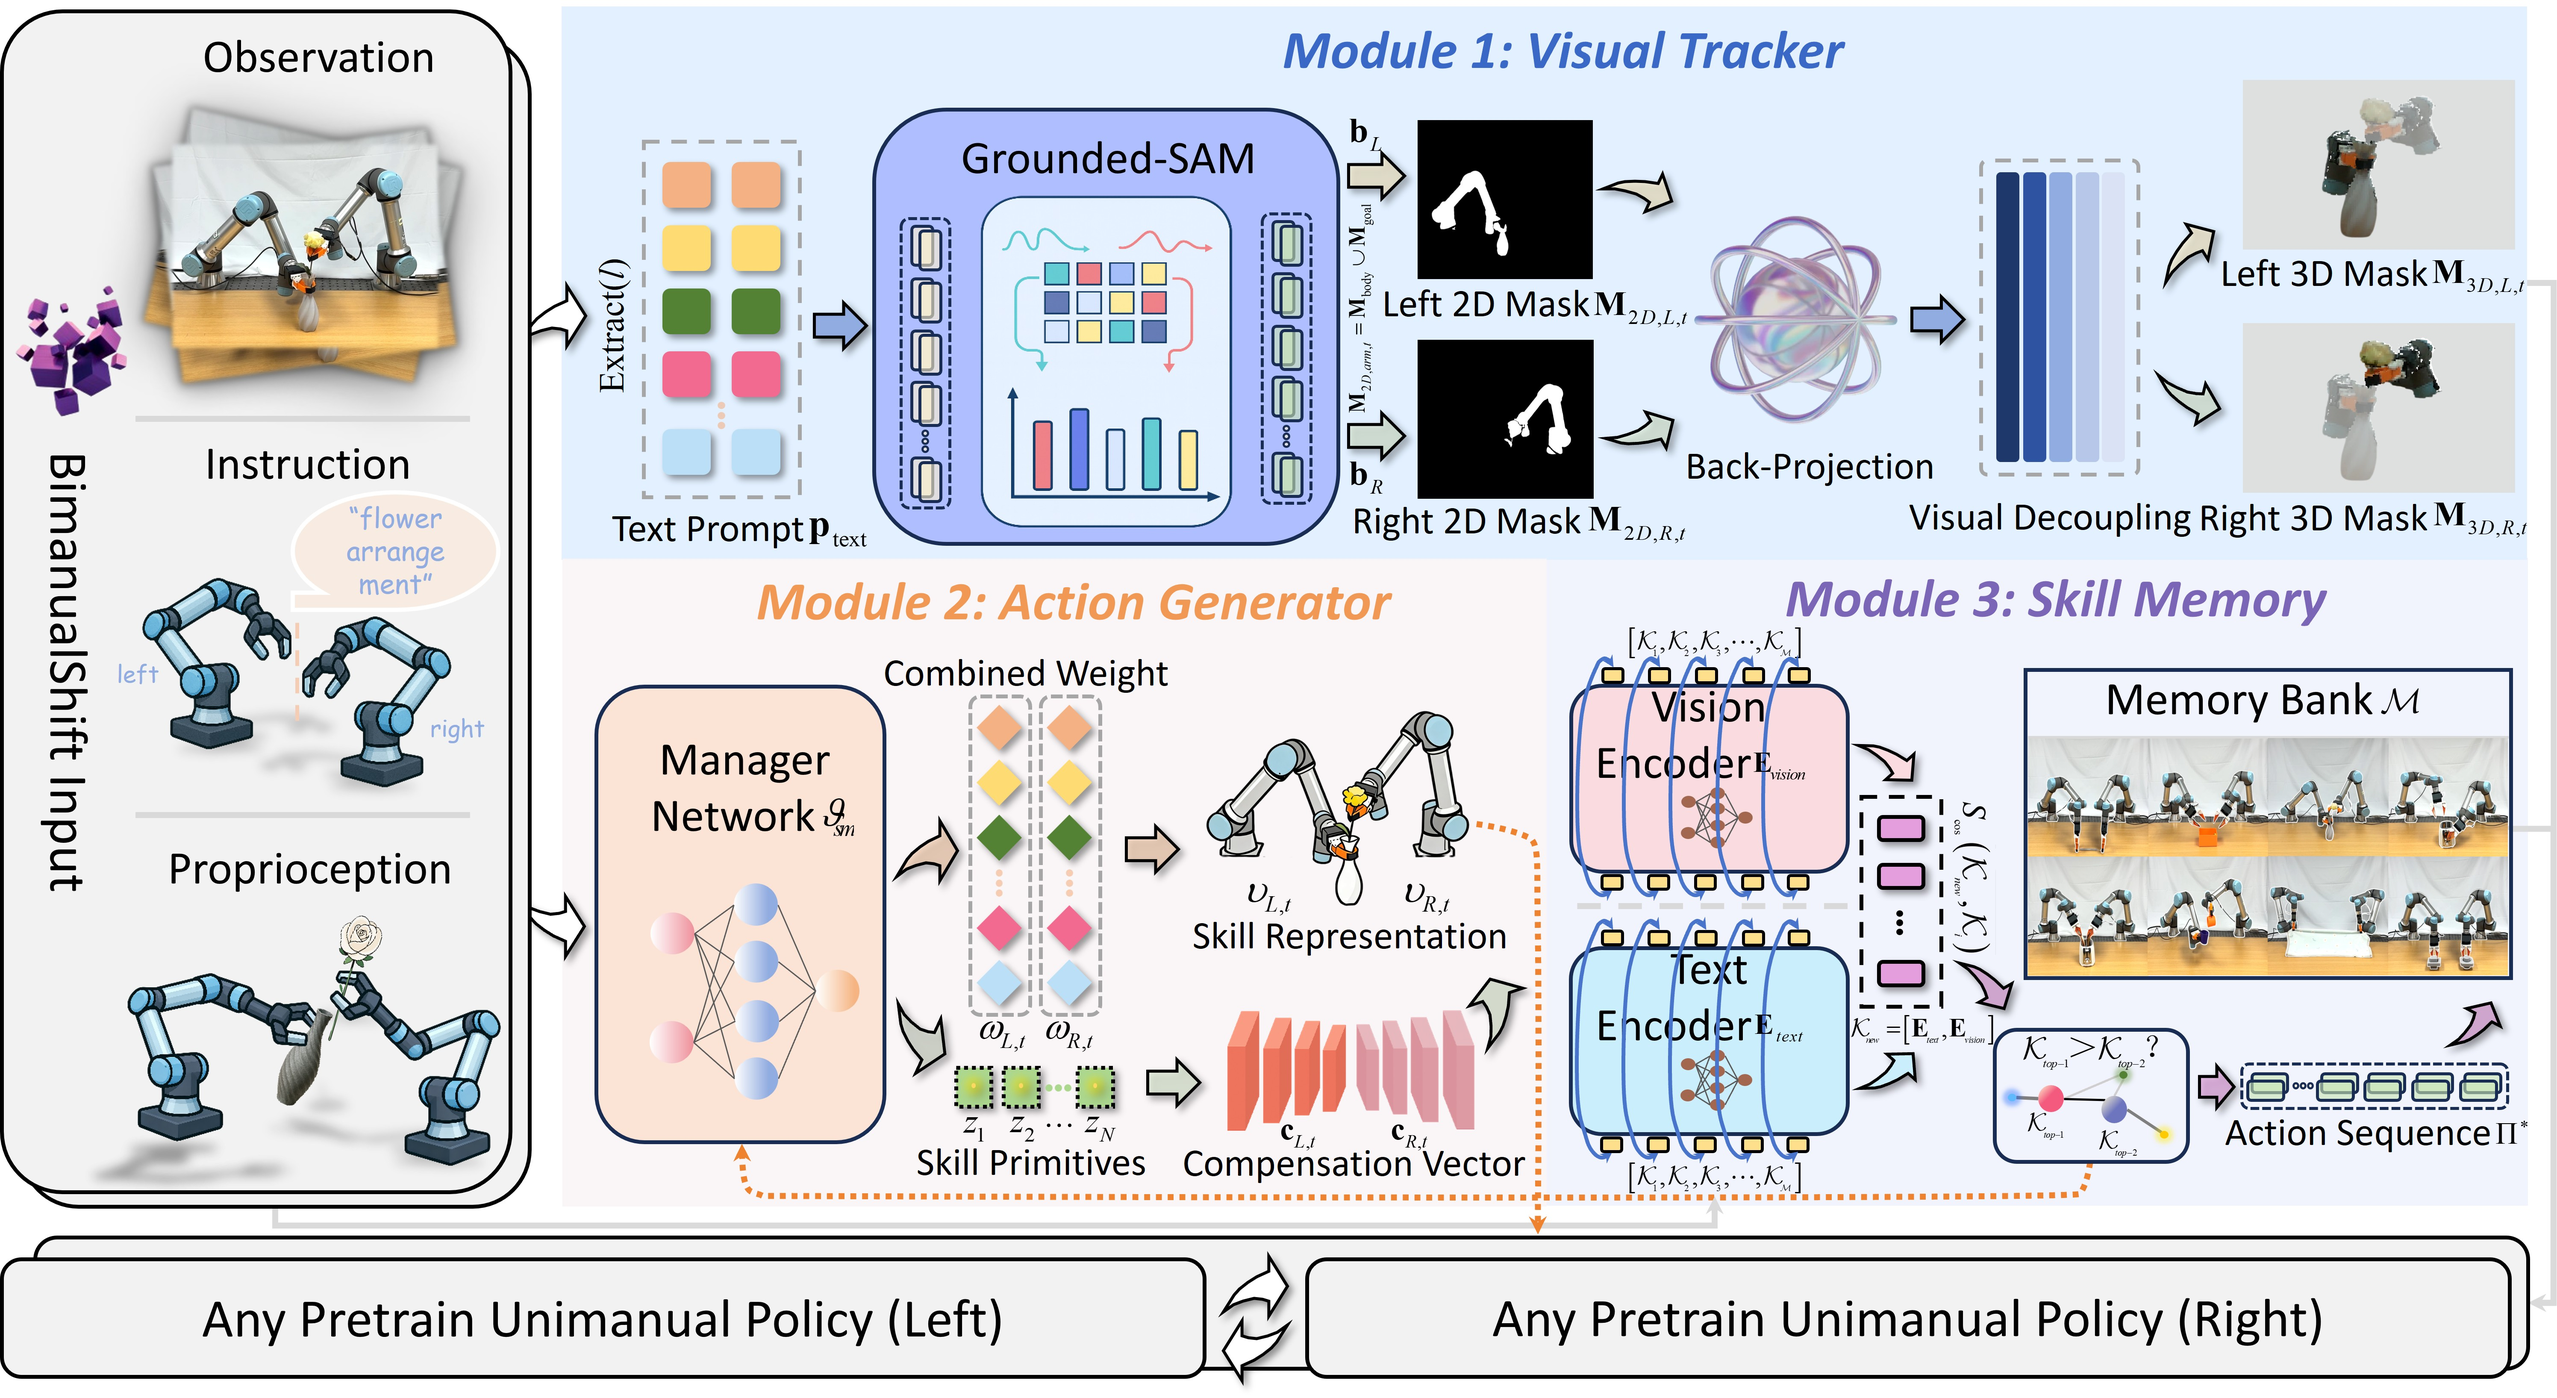
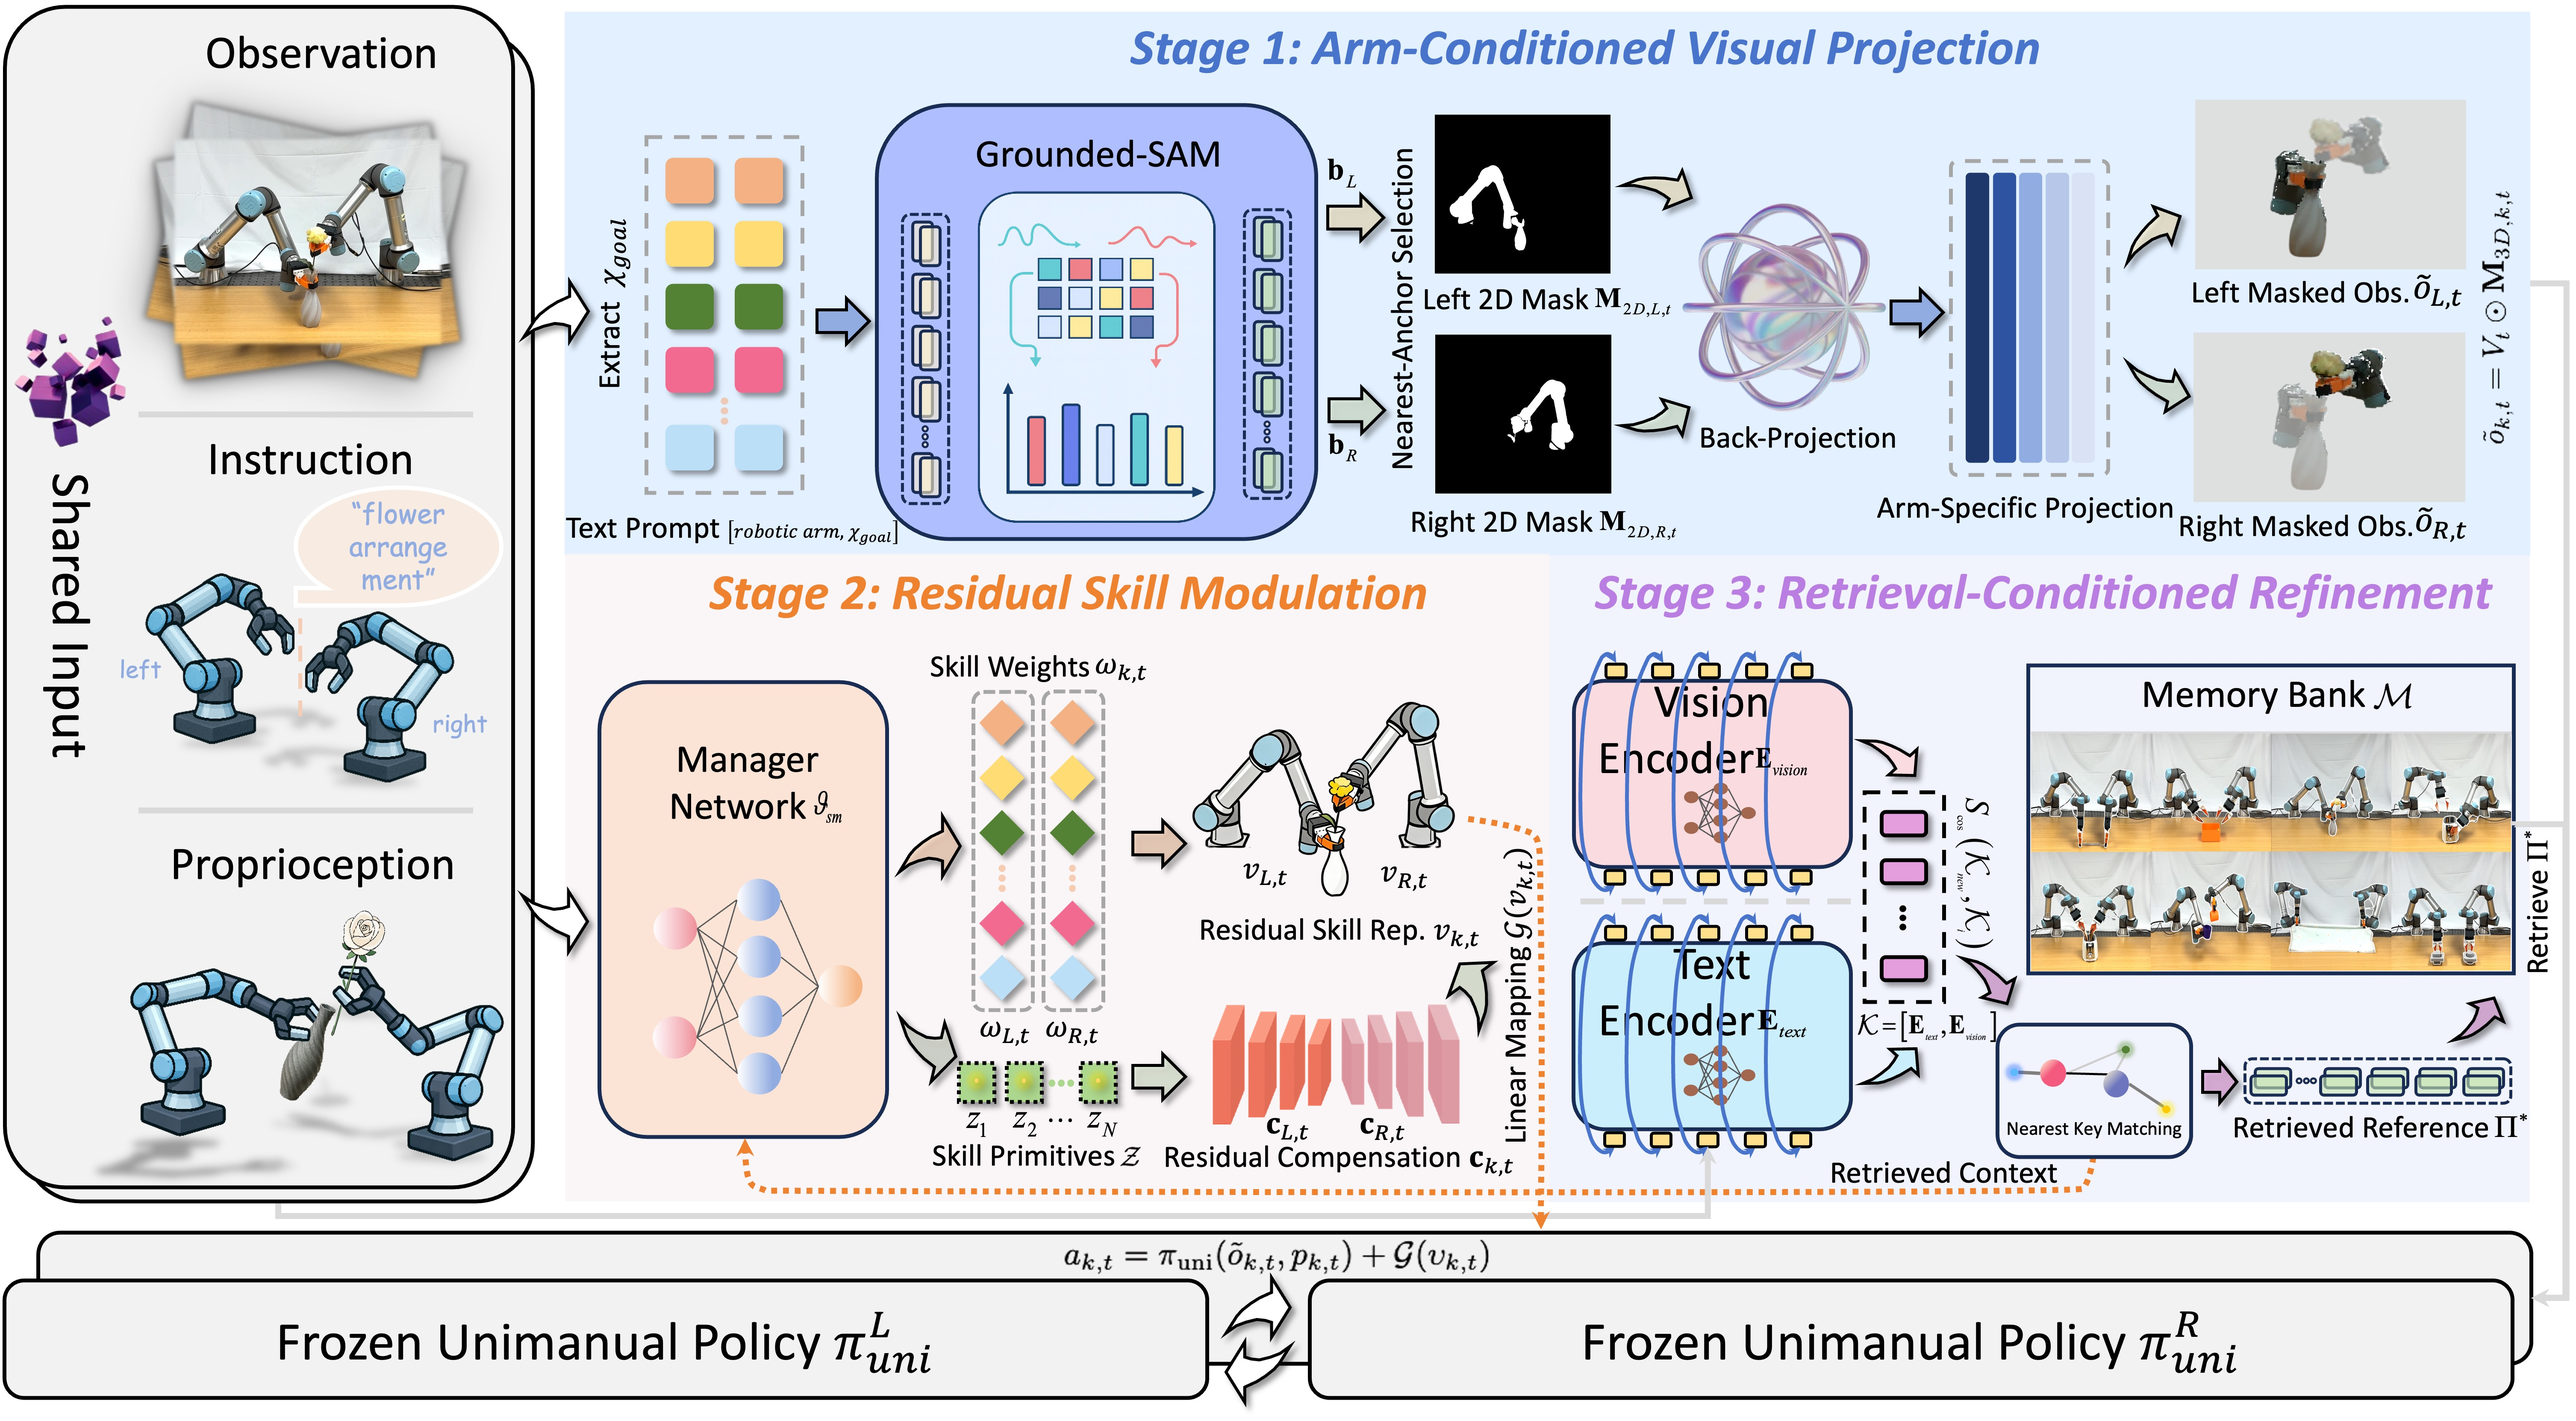
Update README for revised BimanualShift paper

diff --git a/README.md b/README.md
@@ -1,17 +1,17 @@
 <div align="center">
 
-# BimanualShift: Transferring Unimanual Policy for General Bimanual Manipulation
+# BimanualShift: Arm-Conditioned Residual Skill Transfer from Unimanual Policies to Bimanual Manipulation
 
 [![python](https://img.shields.io/badge/-Python_3.8_-blue?logo=python&logoColor=white)](https://github.com/pre-commit/pre-commit)
 [![pytorch](https://img.shields.io/badge/PyTorch_2.0+-ee4c2c?logo=pytorch&logoColor=white)](https://pytorch.org/get-started/locally/)
 [![wandb](https://img.shields.io/badge/Wandb_0.14.0-yellow?logo=weightsandbiases&logoColor=white)](https://wandb.ai/site/)
 [![license](https://img.shields.io/badge/License-MIT-gree.svg?labelColor=gray)](https://github.com/ashleve/lightning-hydra-template#license)
 
-Yechen Fan<sup>1,2</sup>, Xianyou Ji<sup>1</sup>, Chenyang Song<sup>3</sup>, Huixin He<sup>4</sup>, Haibin Wu<sup>1</sup>, Jinhua Ye<sup>1,2†</sup>, Gengfeng Zheng<sup>2†</sup>
+Yechen Fan<sup>1,2*</sup>, Jinhua Ye<sup>1,2*</sup>, Xianyou Ji<sup>1</sup>, Chenyang Song<sup>3</sup>, Haibin Wu<sup>1</sup>, Gengfeng Zheng<sup>2†</sup>, Jiafu Wan<sup>4†</sup>
 
-<sup>1</sup> Fuzhou University &nbsp; <sup>2</sup> Fujian Key Laboratory of Special Intelligent Equipment Safety Measurement and Control &nbsp; <sup>3</sup> Beihang University &nbsp; <sup>4</sup> Huaqiao University
+<sup>1</sup> Fuzhou University &nbsp; <sup>2</sup> Fujian Key Laboratory of Special Intelligent Equipment Safety Measurement and Control &nbsp; <sup>3</sup> Beihang University &nbsp; <sup>4</sup> South China University of Technology
 
-**[[Project Page](https://yechen056.github.io/Bift/)] | [[Paper]()]**
+<sup>*</sup>Equal contribution &nbsp; <sup>†</sup>Corresponding authors
 
 </div>
 
@@ -20,7 +20,7 @@ Yechen Fan<sup>1,2</sup>, Xianyou Ji<sup>1</sup>, Chenyang Song<sup>3</sup>, Hui
   <img src="docs/framework.jpg" alt="Technical Framework of BimanualShift" width="95%">
 </p>
 
-**BimanualShift** is a modular transfer framework for general bimanual manipulation. Instead of learning dual-arm control from scratch, it reuses **fully frozen pretrained unimanual policies** and equips them with lightweight adaptation modules for perception, coordination, and memory.
+**BimanualShift** is an arm-conditioned residual skill transfer framework for adapting frozen pretrained unimanual policies to bimanual manipulation. Instead of learning a full bimanual policy from scratch, it aligns shared bimanual observations to arm-specific inputs and learns lightweight residual coordination for synchronization, spatial avoidance, and contact compensation under few bimanual demonstrations.
 
 # 💻 Installation
 
